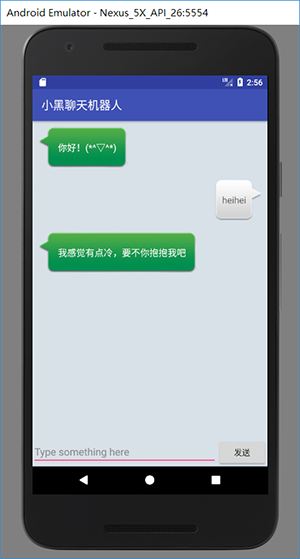
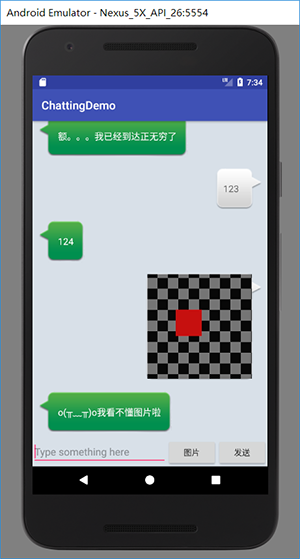
change

diff --git a/README.md b/README.md
@@ -1,7 +1,5 @@
 # 安卓聊天软件的Demo
 
-**比较突出的一点就是实现了一个简单聊天机器人的功能**
-
 ## 使用的库
 
 - Litepal数据库
@@ -30,42 +28,38 @@ dependencies {
     
 - **登录界面与注册界面**
 
-    + 使用数据库来保证用户账号是必须注册的， 为后续可能加入远程服务器留后路
-    + 注册账号的要求和一般注册账户差不多，要求密码长度6-16位，用户名不能已存在等
-    + （掌握使用了百分比相对布局，可能解决了分辨率问题？**未尝试！！** 后面的有些活动没用到百分比布局， 分辨率肯定是个问题）
+    + 默认管理员账号为 admin, 密码 123456
+    + 注册账号的要求用户名和密码不为空，密码长度6-16位，且用户名不能已存在(数据库会检查)
+    + 登录界面会判断用户名是否存在数据库，且密码是否正确，正确则进入好友列表
+    + 记住密码，下次用户登录时用户名和密码无需再次填写
+    + 自动登录，下次运行程序时，则自动登录
+
+![登录界面](img_README/login.png)
+
+![注册界面](img_README/signUp.png)
 
 - **好友列表功能**
     
     + 列表中的元素只是为了测试所以加的
-    + 列表中的元素除聊天机器人外，点击后均显示的是一个Toast信息，后续可自己添加 
-    + 基本完成了普遍聊天软件的好友列表，后续可加入好友在线或无上线状态，左侧的组“3/3”可根据实际来变化
+    + 列表中的元素除聊天机器人和socketTest外，点击后均显示的是一个Toast信息，后续可自己添加 
+    + 基本完成了普遍聊天软件的好友列表
+
+![好友列表](img_README/friendlist1.png)
+
+![好友列表](img_README/friendlist.png)
 
 - **聊天机器人功能**
 
     + 使用的是图灵机器人的API接口
     + 从Json数据来获取机器人的回复消息，从而实现聊天机器人的功能 
+    + 可以发送图片
+    + 聊天记录将保存在数据库中，下次进行聊天还能看见以前的聊天记录
+
+![聊天机器人](img_README/robot.png)
 
 - **socket通信功能**
 
     + 项目中的server文件夹中的代码为服务端代码， 好友列表中的socketTest为客户端
     + 实现了客户端服务端之间的通信
 
-## 界面
-
-### 登录界面
-
-![](img_README/login_pic.png)
-
-### 注册界面
-
-![](img_README/sign_up_pic.png)
-
-### 好友列表
-
-![](img_README/friends_list.png)
-
-![](img_README/friends_list2.png)
-
-### 机器人聊天界面
-
-![](img_README/robot.png)
+![SocketTest](img_README/socketTest.png)
